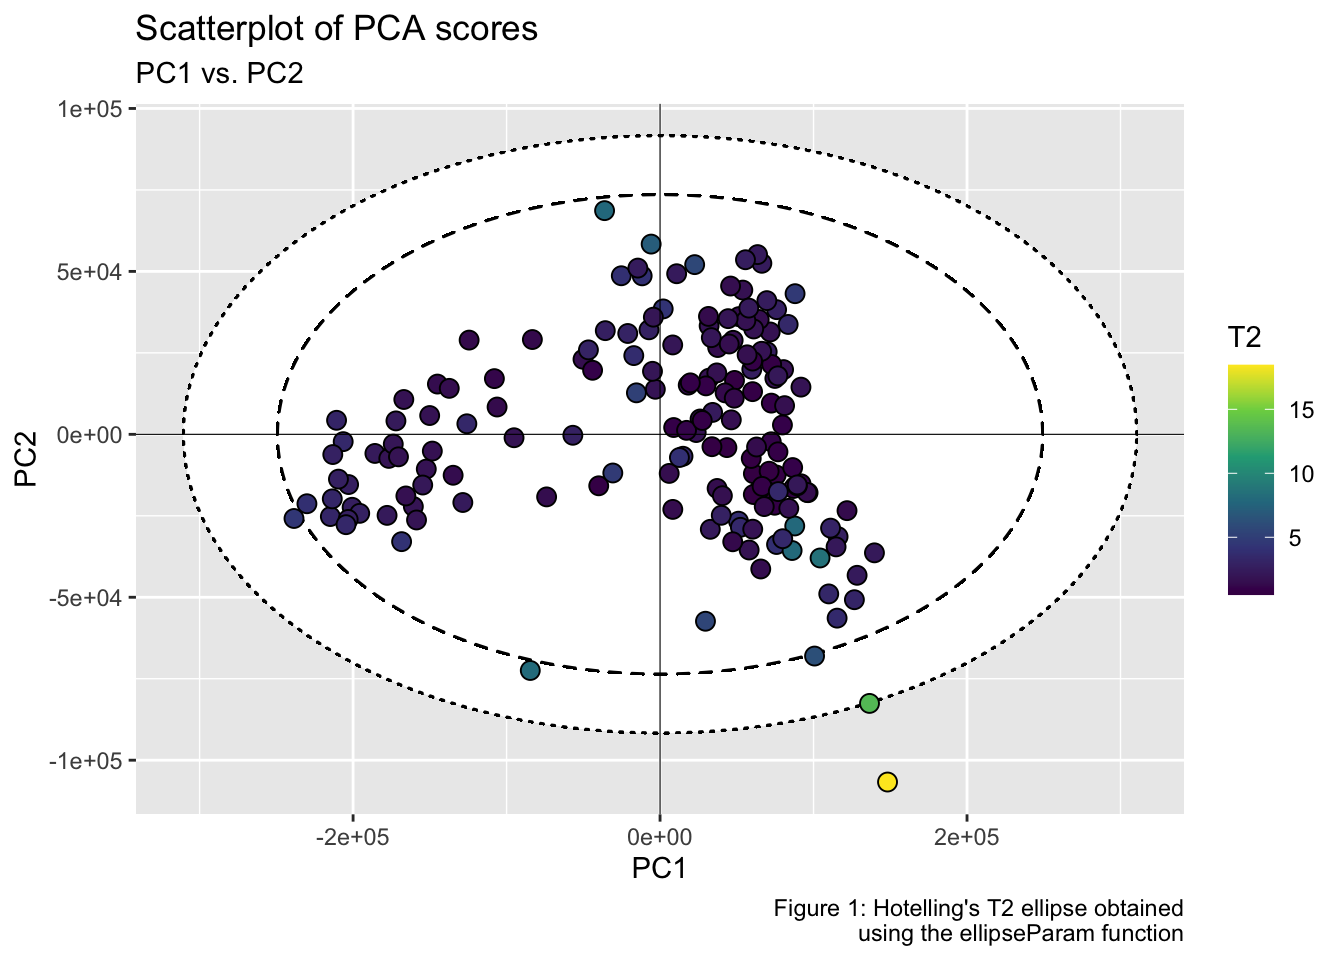
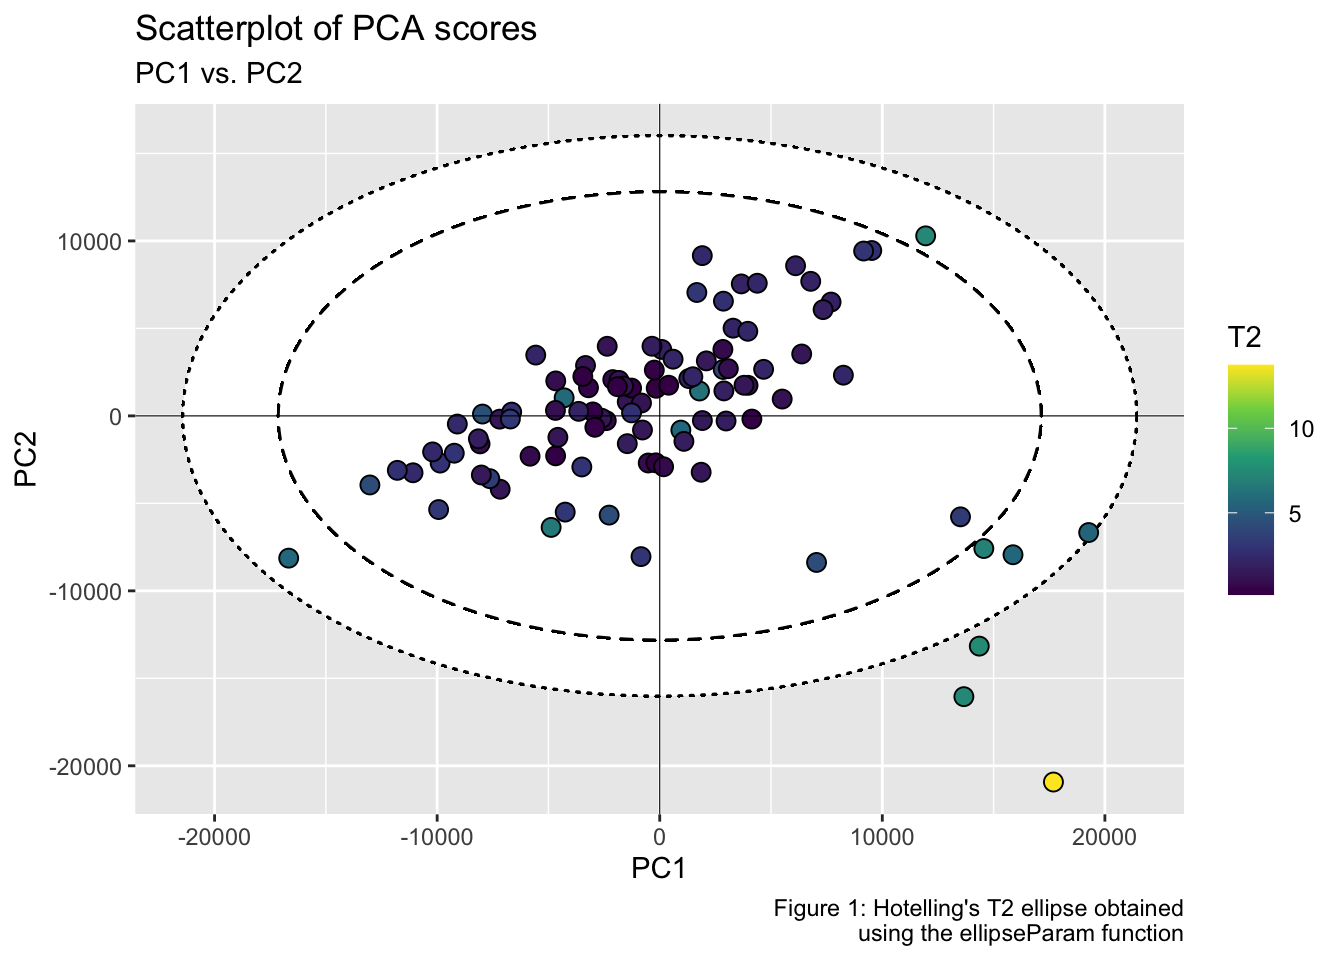
Updates

diff --git a/README.md b/README.md
@@ -49,10 +49,11 @@ confidence ellipse:
     Analysis (PCA) from a LIBS spectral dataset `data("specData")` and
     extract the PCA scores.
 
--   with `ellipseParam()` we get the T<sup>2</sup> value along with the
-    values of the semi-minor and semi-major axes. Whereas,
-    `ellipseCoord()` provides the *x* and *y* coordinates for drawing
-    the Hotelling ellipse at user-defined confidence interval.
+-   with `ellipseParam()` we get the
+    T![^2](https://latex.codecogs.com/png.image?%5Cdpi%7B110%7D&space;%5Cbg_white&space;%5E2 "^2")
+    value along with the values of the semi-minor and semi-major axes.
+    Whereas, `ellipseCoord()` provides the *x* and *y* coordinates for
+    drawing the Hotelling ellipse at user-defined confidence interval.
 
 -   using `ggplot2::ggplot()` and `ggforce::geom_ellipse()` we plot the
     scatterplot of PCA scores as well as the corresponding Hotelling
@@ -65,7 +66,7 @@ confidence ellipse:
 library(HotellingEllipse)
 ```
 
-**Step 2.** Load LIBS dataset into R session.
+**Step 2.** Load LIBS dataset.
 
 ``` r
 data("specData")
@@ -87,20 +88,20 @@ pca_scores <- pca_mod %>%
   pluck("ind", "coord") %>%
   as_tibble() %>%
   print()
-#> # A tibble: 171 × 5
-#>      Dim.1   Dim.2   Dim.3   Dim.4    Dim.5
-#>      <dbl>   <dbl>   <dbl>   <dbl>    <dbl>
-#>  1  14959.  -6726. -23825.  -2635. -30343. 
-#>  2  37177. -16610. -14912.   8591. -17120. 
-#>  3 109909. -48972.  38185. -11120.   2845. 
-#>  4  10815.  49283.  18459.  -5409. -15114. 
-#>  5 115992. -31406. -16042. -20505. -14349. 
-#>  6  80481.  19867.  34014. -12234.    -42.8
-#>  7  48511.  16542.   5560. -11718.   5443. 
-#>  8 121815. -23423. -13403.  -8714.   3183. 
-#>  9  96442. -17904. -13306.  -5513.   7043. 
-#> 10  60801. -12077. -16888.   1918.   2769. 
-#> # … with 161 more rows
+#> # A tibble: 100 × 5
+#>      Dim.1   Dim.2  Dim.3  Dim.4   Dim.5
+#>      <dbl>   <dbl>  <dbl>  <dbl>   <dbl>
+#>  1  17689. -20927.  2599. -1570. -3691. 
+#>  2   -775.   -806. -2700. -3263.   989. 
+#>  3  -2401.   -273. -1839. -2279.  -324. 
+#>  4   2862.   6557.  1465.  4453.   -49.7
+#>  5   6379.   3538. -3310.  1160.   496. 
+#>  6   8251.   2326.  3907. -2607. -1172. 
+#>  7 -13022.  -3948.  1698.  4685. -1222. 
+#>  8  -4671.   1999.  3042.  1516.   -75.7
+#>  9  -1460.    800. -2420. -3238.   477. 
+#> 10  19271.  -6668.  -413.  1615.  2149. 
+#> # … with 90 more rows
 ```
 
 **Step 5.** Run `ellipseParam()` for the first two principal components
@@ -116,15 +117,15 @@ res_2PCs <- ellipseParam(data = pca_scores, k = 2, pcx = 1, pcy = 2)
 ``` r
 str(res_2PCs)
 #> List of 4
-#>  $ Tsquare     : tibble [171 × 1] (S3: tbl_df/tbl/data.frame)
-#>   ..$ value: num [1:171] 3.34 1.42 3.29 2.39 2.71 ...
+#>  $ Tsquare     : tibble [100 × 1] (S3: tbl_df/tbl/data.frame)
+#>   ..$ value: num [1:100] 13.738 1.418 0.692 2.761 1.313 ...
 #>  $ Ellipse     : tibble [1 × 4] (S3: tbl_df/tbl/data.frame)
-#>   ..$ a.99pct: num 310423
-#>   ..$ b.99pct: num 91576
-#>   ..$ a.95pct: num 249172
-#>   ..$ b.95pct: num 73506
-#>  $ cutoff.99pct: num 9.52
-#>  $ cutoff.95pct: num 6.14
+#>   ..$ a.99pct: num 21419
+#>   ..$ b.99pct: num 16002
+#>   ..$ a.95pct: num 17132
+#>   ..$ b.95pct: num 12799
+#>  $ cutoff.99pct: num 9.76
+#>  $ cutoff.95pct: num 6.24
 ```
 
 -   Semi-axes of the ellipse at 99% confidence level.
@@ -141,7 +142,8 @@ a2 <- pluck(res_2PCs, "Ellipse", "a.95pct")
 b2 <- pluck(res_2PCs, "Ellipse", "b.95pct")
 ```
 
--   Hotelling’s T<sup>2</sup>.
+-   Hotelling’s
+    T![^2](https://latex.codecogs.com/png.image?%5Cdpi%7B110%7D&space;%5Cbg_white&space;%5E2 "^2").
 
 ``` r
 T2 <- pluck(res_2PCs, "Tsquare", "value")
@@ -163,13 +165,14 @@ coord_2PCs_90 <- ellipseCoord(data = pca_scores, pcx = 1, pcy = 3, conf.limit = 
 ``` r
 str(coord_2PCs_99)
 #> tibble [500 × 2] (S3: tbl_df/tbl/data.frame)
-#>  $ x: num [1:500] 310423 310398 310324 310201 310029 ...
-#>  $ y: num [1:500] -1.06e-11 9.87e+02 1.97e+03 2.96e+03 3.95e+03 ...
+#>  $ x: num [1:500] 21419 21418 21412 21404 21392 ...
+#>  $ y: num [1:500] 8.73e-13 1.30e+02 2.59e+02 3.89e+02 5.19e+02 ...
 ```
 
 **Step 6.** Plot PC1 *vs.* PC2 scatterplot, with the two corresponding
 Hotelling ellipse. Points inside the two elliptical regions are within
-the 99% and 95% confidence intervals for T<sup>2</sup>.
+the 99% and 95% confidence intervals for
+T![^2](https://latex.codecogs.com/png.image?%5Cdpi%7B110%7D&space;%5Cbg_white&space;%5E2 "^2").
 
 ``` r
 pca_scores %>%
@@ -206,11 +209,14 @@ ggplot() +
 <img src="man/figures/README-unnamed-chunk-15-1.png" width="90%" height="90%" />
 
 **Note:** The easiest way to analyze and interpret Hotelling’s
-T<sup>2</sup> for more than two principal components, is to plot
-Hotelling’s T<sup>2</sup> *vs.* Observations, where the confidence
-limits are plotted as a line. Thus, observations below the two lines are
-within the T<sup>2</sup> limits. For example, `ellipseParam()` is used
-with the first three principal components (**k = 3**).
+T![^2](https://latex.codecogs.com/png.image?%5Cdpi%7B110%7D&space;%5Cbg_white&space;%5E2 "^2")
+for more than two principal components, is to plot Hotelling’s
+T![^2](https://latex.codecogs.com/png.image?%5Cdpi%7B110%7D&space;%5Cbg_white&space;%5E2 "^2")
+*vs.* Observations, where the confidence limits are plotted as a line.
+Thus, observations below the two lines are within the
+T![^2](https://latex.codecogs.com/png.image?%5Cdpi%7B110%7D&space;%5Cbg_white&space;%5E2 "^2")
+limits. For example, `ellipseParam()` is used with the first three
+principal components (**k = 3**).
 
 ``` r
 res_3PCs <- ellipseParam(data = pca_scores, k = 3)
@@ -219,10 +225,10 @@ res_3PCs <- ellipseParam(data = pca_scores, k = 3)
 ``` r
 str(res_3PCs)
 #> List of 3
-#>  $ Tsquare     : tibble [171 × 1] (S3: tbl_df/tbl/data.frame)
-#>   ..$ value: num [1:171] 2.215 0.941 2.18 1.586 1.798 ...
-#>  $ cutoff.99pct: num 11.8
-#>  $ cutoff.95pct: num 8.07
+#>  $ Tsquare     : tibble [100 × 1] (S3: tbl_df/tbl/data.frame)
+#>   ..$ value: num [1:100] 9.066 0.936 0.456 1.822 0.866 ...
+#>  $ cutoff.99pct: num 12.2
+#>  $ cutoff.95pct: num 8.26
 ```
 
 ``` r

diff --git a/NEWS.md b/NEWS.md
@@ -1,32 +1,32 @@
 # HotellingEllipse 1.1.0
-This version includes (1) a correction of an error that occurred in the ellipseParam and ellipseCoord functions, when data is data.frame, instead of tibble; (2) an improvement of the package documentation, (3) and changes in the vignette (the difference between ellipseParam and ellipseCoord functions to draw Hotelling's ellipse is much clearer for users).
+This version includes (1) a correction of an error that occurred in the `ellipseParam` and `ellipseCoord `functions, when data is data.frame, instead of tibble; (2) an improvement of the package documentation; (3) changes in the vignette (the difference between `ellipseParam` and `ellipseCoord` functions to draw Hotelling's ellipse is much clearer for users).
 
 # HotellingEllipse 1.0.0
-Not release
+Not released
 
 # HotellingEllipse 0.9.0
-Not release
+Not released
 
 # HotellingEllipse 0.8.0
-Not release
+Not released
 
 # HotellingEllipse 0.7.0
-Not release
+Not released
 
 # HotellingEllipse 0.6.0
-Not release
+Not released
 
 # HotellingEllipse 0.5.0
-Not release
+Not released
 
 # HotellingEllipse 0.4.0
-Not release
+Not released
 
 # HotellingEllipse 0.3.0
-Not release
+Not released
 
 # HotellingEllipse 0.2.0
-Not release
+Not released
 
 # HotellingEllipse 0.1.0
 Initial release
